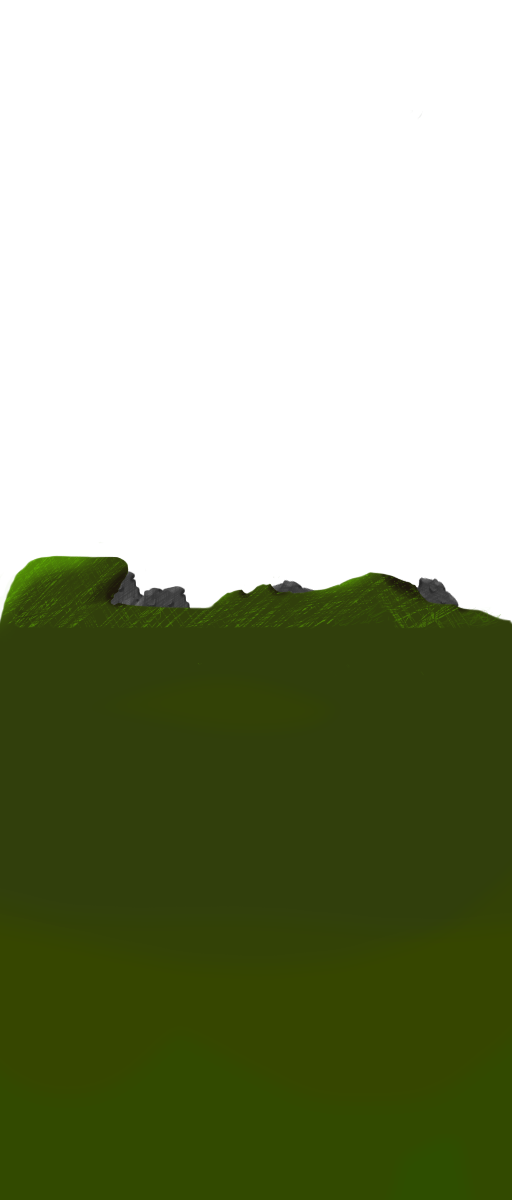
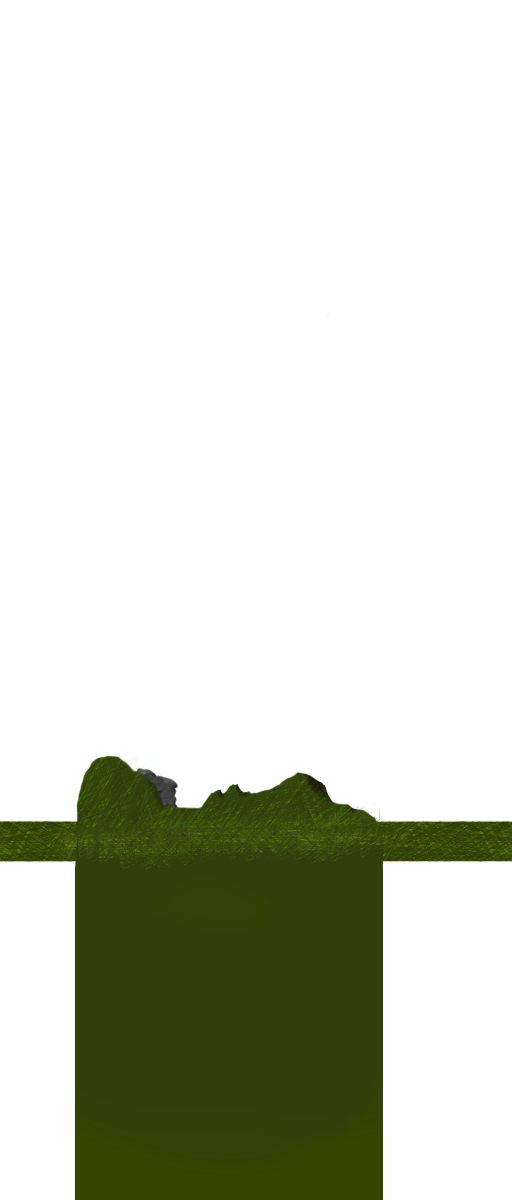
Added more backdrops, tinkered with inventory functionality. You can now pick up an item (sort of).

diff --git a/src/image/ImageStore.java b/src/image/ImageStore.java
@@ -86,8 +86,12 @@ public enum ImageStore {
 	ASTRAL_MOON("res/img/BackDrops/Astronomical/MoonSprite.PNG", null),
 	
 	FOREST_BACKDROP_FAR_1("res/img/Backdrops/ForestWorld/Far/Mountain_1.PNG", null),
-	FOREST_BACKDROP_FAR_2("res/img/Backdrops/ForestWorld/Far/Mountain_2.PNG", null),
-	FOREST_BACKDROP_FAR_3("res/img/Backdrops/ForestWorld/Far/Mountain_3.PNG", null),
+	FOREST_BACKDROP_FAR_2("res/img/Backdrops/ForestWorld/Far/Mountain_2.png", null),
+	FOREST_BACKDROP_FAR_3("res/img/Backdrops/ForestWorld/Far/Mountain_3.png", null),
+	FOREST_BACKDROP_FAR_4("res/img/Backdrops/ForestWorld/Far/Mountain_6.PNG", null),
+	FOREST_BACKDROP_FAR_5("res/img/Backdrops/ForestWorld/Far/Mountain_7.PNG", null),
+	
+	FOREST_BACKDROP_FAR_BLANK("res/img/Backdrops/ForestWorld/Far/Mountain_Blank.png", null),
 	
 	FOREST_BACKDROP_MID_1("res/img/Backdrops/ForestWorld/Mid/Tree_1.PNG", null),
 	FOREST_BACKDROP_MID_2("res/img/Backdrops/ForestWorld/Mid/Tree_2.PNG", null),
@@ -98,6 +102,10 @@ public enum ImageStore {
 	FOREST_BACKDROP_MID_7("res/img/Backdrops/ForestWorld/Mid/Tree_7.PNG", null),
 	
 	FOREST_BACKDROP_SHORT_1("res/img/Backdrops/ForestWorld/Short/Grass.PNG", null),
+	FOREST_BACKDROP_SHORT_2("res/img/Backdrops/ForestWorld/Short/Grass_1.png", null),
+	FOREST_BACKDROP_SHORT_3("res/img/Backdrops/ForestWorld/Short/Grass_2.png", null),
+	FOREST_BACKDROP_SHORT_4("res/img/Backdrops/ForestWorld/Short/Grass_3.png", null),
+	FOREST_BACKDROP_SHORT_5("res/img/Backdrops/ForestWorld/Short/Grass_4.png", null),
 	
 	FOREST_BACKDROP_SKY_1("res/img/Backdrops/ForestWorld/Sky/BackgroundSlice_1.PNG", null),
 	FOREST_BACKDROP_SKY_2("res/img/Backdrops/ForestWorld/Sky/BackgroundSlice_2.PNG", null),

diff --git a/src/image/BackDrop.java b/src/image/BackDrop.java
@@ -41,9 +41,20 @@ public class BackDrop implements Drawable{
 	
 	public void rebuild(String name){
 		buildClouds(name);
+		buildSky(name);
 		buildFar(name);
 		buildMid(name);
 		buildShort(name);
+	}
+	
+	private void buildSky(String name){
+		Random rand = new Random();
+		int j = 0;
+		for(int i = 0; i < 2200; j++){
+			skyPalette = ImageCluster.getClusterByNameAndUsage(name, ImageCluster.SKY);
+			sky.add(rand.nextInt(skyPalette.getImages().length));
+			i += skyPalette.get(sky.get(j)).getImage().getWidth();
+		}
 	}
 	
 	private void buildClouds(String name){
@@ -82,9 +93,11 @@ public class BackDrop implements Drawable{
 	}
 	@Override
 	public void draw(Graphics g) {
+		drawTiled(skyPalette, sky, skyX);
 		drawTiled(farPalette, farDrop, farX);
 		drawTiled(midPalette, midDrop, midX);
 		drawTiled(closePalette, closeDrop, closeX);
+		
 	}
 	
 	private void drawTiled(ImageCluster cluster, ArrayList<Integer> seed, double baseX){
@@ -105,6 +118,7 @@ public class BackDrop implements Drawable{
 		//TODO add and remove slices as the game progresses forward();
 	}
 	private void moveSlices(double amount){
+		skyX += amount/4.0;
 		farX += amount/3.0;
 		midX += amount/1.5;
 		closeX += amount;

diff --git a/src/image/ImageCluster.java b/src/image/ImageCluster.java
@@ -6,7 +6,13 @@ public enum ImageCluster {
 	BACKDROP_FOREST_FAR("forest", "far",
 			ImageStore.FOREST_BACKDROP_FAR_1,
 			ImageStore.FOREST_BACKDROP_FAR_2,
-			ImageStore.FOREST_BACKDROP_FAR_3
+			ImageStore.FOREST_BACKDROP_FAR_3,
+			ImageStore.FOREST_BACKDROP_FAR_4,
+			ImageStore.FOREST_BACKDROP_FAR_5,
+			ImageStore.FOREST_BACKDROP_FAR_BLANK,
+			ImageStore.FOREST_BACKDROP_FAR_BLANK,
+			ImageStore.FOREST_BACKDROP_FAR_BLANK,
+			ImageStore.FOREST_BACKDROP_FAR_BLANK
 			),
 	BACKDROP_FOREST_MID("forest", "mid",
 			ImageStore.FOREST_BACKDROP_MID_1,
@@ -18,7 +24,11 @@ public enum ImageCluster {
 			ImageStore.FOREST_BACKDROP_MID_7
 			),
 	BACKDROP_FOREST_SHORT("forest", "short",
-			ImageStore.FOREST_BACKDROP_SHORT_1
+			ImageStore.FOREST_BACKDROP_SHORT_1,
+			ImageStore.FOREST_BACKDROP_SHORT_2,
+			ImageStore.FOREST_BACKDROP_SHORT_3,
+			ImageStore.FOREST_BACKDROP_SHORT_4,
+			ImageStore.FOREST_BACKDROP_SHORT_5
 			),
 	BACKDROP_FOREST_SKY("forest", "sky",
 			ImageStore.FOREST_BACKDROP_SKY_1,

diff --git a/src/gui/Inventory.java b/src/gui/Inventory.java
@@ -35,7 +35,7 @@ public class Inventory extends Interface {
 					ImageStore.INVENTORY_FRAME_SLOT_PRESSED));
 
 		}
-		slots.get(0).put(Component.VACCUM.getPart());
+		slots.get(1).put(Component.VACCUM.getPart());
 	}
 
 	public static Inventory get() {
@@ -57,17 +57,19 @@ public class Inventory extends Interface {
 		for (int i = 0; i < slots.size(); i++) {
 			slots.get(i).buttonStateCheck(input);
 			slots.get(i).update();
-			if (!slots.get(i).isEmpty()) {
-
-			}
+			/*
+			 * if (!slots.get(i).isEmpty()) { if(slots.get(i).hasBeenClicked()
+			 * == Button.PRESSED_TRUE){ slots.get(i).take(); } }
+			 */
 		}
 
 	}
 
 	public Object checkPickups(Input input) {
 		for (int i = 0; i < slots.size(); i++) {
-			if (slots.get(i).hasBeenClicked() == Button.PRESSED_TRUE) {
-				if (slots.get(i).isEmpty()) {
+			if (!slots.get(i).isEmpty()) {
+				if (slots.get(i).hasBeenClicked() == Button.PRESSED_TRUE) {
+
 					return slots.get(i).take();
 				}
 			}
